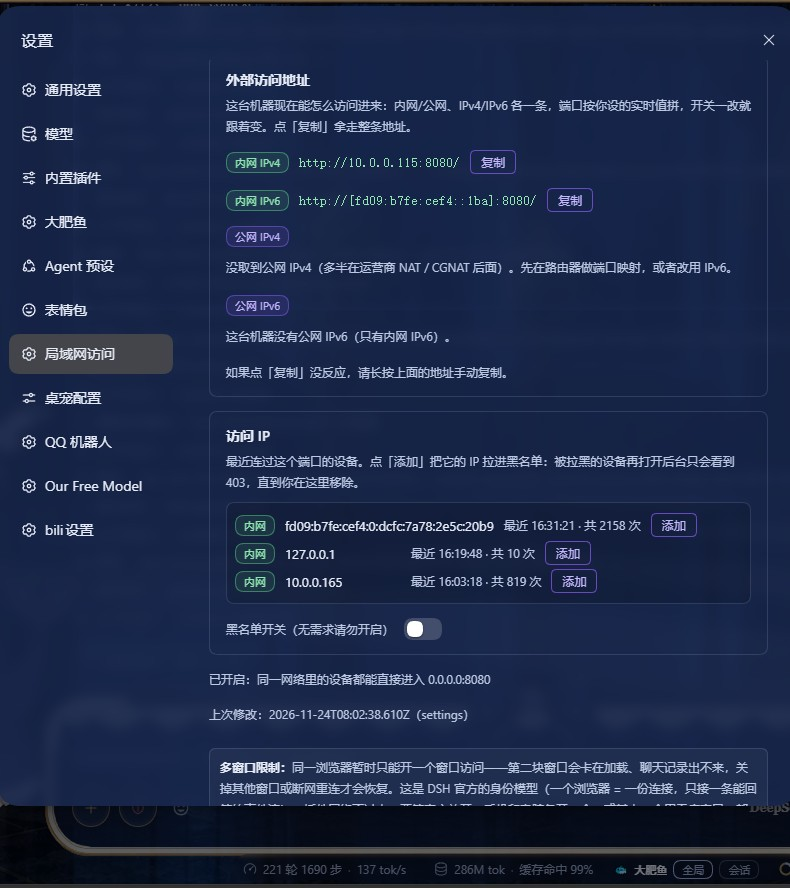
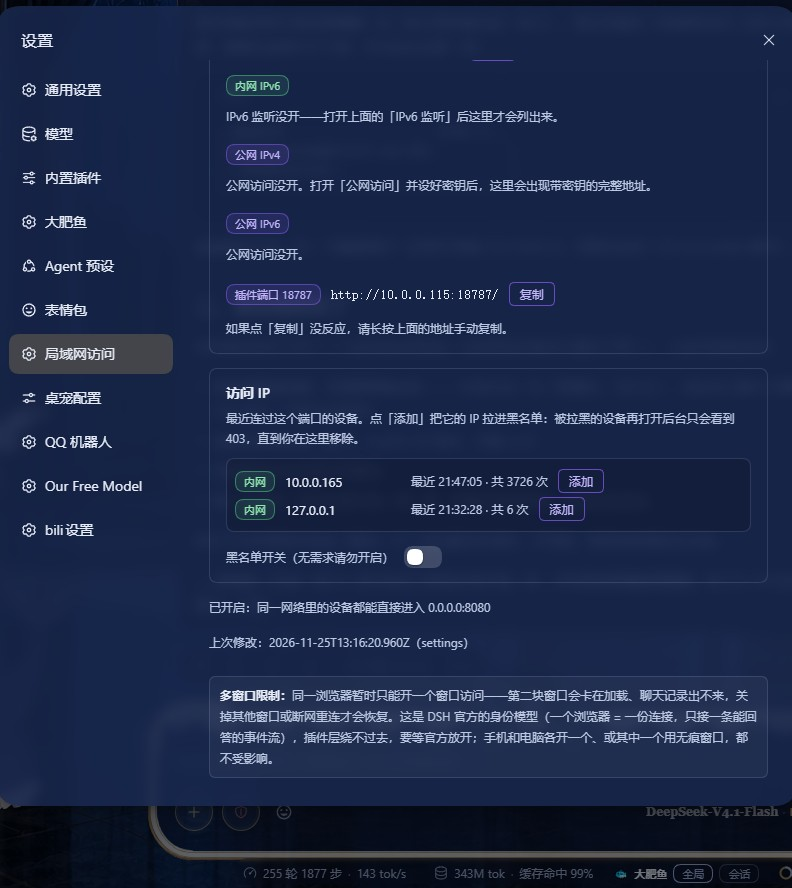
0.9.1: 换 0.9.0 三张实拍截图，README 补额外端口转发说明

diff --git a/README.md b/README.md
@@ -34,10 +34,14 @@ dsh plugin --profile web add dsh-plugin-reverse-proxy   # 推荐：npm 包，免
 
 ## 长什么样
 
-**设置 → 局域网访问**（0.8.0 一页搞定）：局域网访问总开关、IPv6 监听、监听端口、公网访问与密钥（带「随机」按钮）、**外部访问地址**（内网/公网 IPv4+IPv6 各一行，实时端口、一键复制）、访问 IP 与黑名单（每行带「公网 / 内网」标签，卡片内滚动）。点开关会先弹一次安全确认：
+**设置 → 局域网访问**（0.9.0 一页搞定）：局域网访问总开关（卡里带「联系插件官方作者」按钮）、IPv6 监听、监听端口、公网访问与密钥（带「随机」按钮）、**额外端口转发**（把只监听 127.0.0.1 的插件端口一起放出去）、**外部访问地址**（内网/公网 IPv4+IPv6 各一行，加了端口后每个端口再多一行，实时端口、一键复制）、访问 IP 与黑名单（每行带「公网 / 内网」标签，卡片内滚动）。点开关会先弹一次安全确认：
 
 <p align="center">
   <img src="assets/settings-lan-access.jpg" width="560" alt="设置 · 局域网访问（总开关 / IPv6 监听 / 监听端口 / 公网访问与密钥）">
+</p>
+
+<p align="center">
+  <img src="assets/settings-forward.jpg" width="560" alt="设置 · 额外端口转发（端口输入 / 转发开关 / 已添加端口）">
 </p>
 
 <p align="center">

diff --git a/README.en.md b/README.en.md
@@ -34,10 +34,15 @@ confirm — your phone can connect.
 
 ## What it looks like
 
-**Settings → LAN access** (off by default; flipping it asks for confirmation first):
+**Settings → LAN access** (0.9.0, one page; off by default, flipping it asks for confirmation first).
+Master switch with a **Contact the author** button, IPv6 listener, port, public access + key (**Random** button), **extra port forwarding** (publish ports that only listen on 127.0.0.1), **external addresses** (one row each for LAN/WAN IPv4+IPv6, plus one row per forwarded port, live port, one-click copy) and the access-IP blacklist:
 
 <p align="center">
   <img src="assets/settings-lan-access.jpg" width="560" alt="Settings · LAN access (main switch / IPv6 / port / public access + key)">
+</p>
+
+<p align="center">
+  <img src="assets/settings-forward.jpg" width="560" alt="Settings · Extra port forwarding (port input / switch / added ports)">
 </p>
 
 <p align="center">

diff --git a/CHANGELOG.md b/CHANGELOG.md
@@ -4,6 +4,14 @@
 
 ---
 
+## 0.9.1
+
+仅文档与截图。
+
+**更新内容**
+- 「长什么样」换成 0.9.0 设置页三张实拍：总开关（含「联系插件官方作者」）、额外端口转发、外部访问地址。
+- 中英 README 补上额外端口转发与端口逐条地址的说明。
+
 ## 0.9.0
 
 **更新内容**
